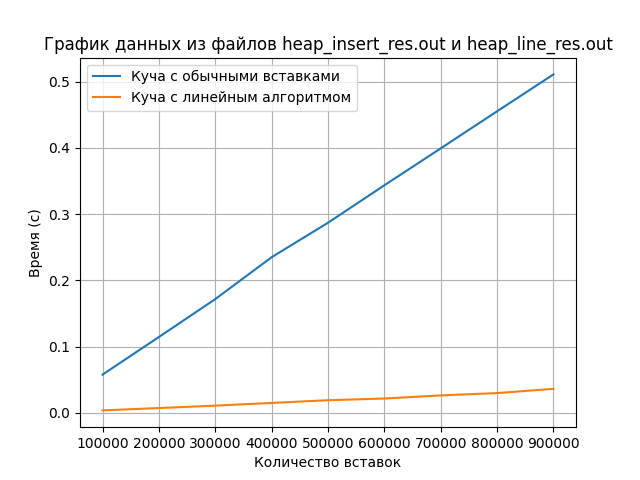
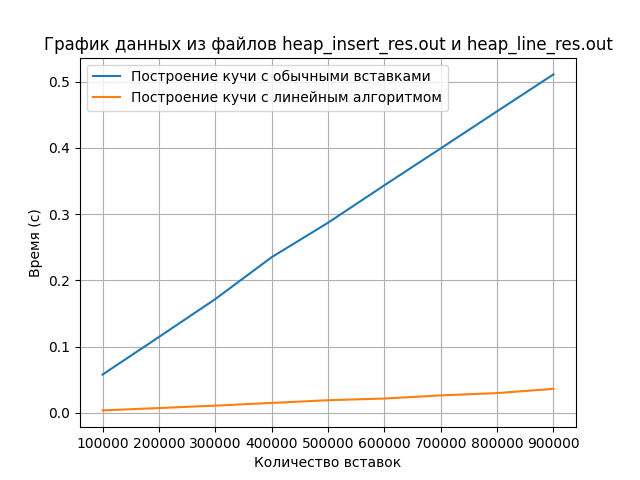
corrected names and added some changes

Changed region(s): [[0.1875, 0.125, 0.7188, 0.2188]]

diff --git a/practicum_work3/BinHeap/Heap.c b/practicum_work3/BinHeap/Heap.c
@@ -1,5 +1,11 @@
 #include "Heap.h"
 
+void swap(void* a, void* b, size_t elem_size);
+void SiftDown(Heap* hp, size_t index);
+void SiftUp(Heap* hp, size_t index);
+size_t GetChild(size_t index, size_t k, size_t i);
+size_t GetParent(size_t index, size_t k);
+
 void swap(void* first, void* second, size_t elem_size)
 {
     void* temp = calloc(1, elem_size);
@@ -15,28 +21,28 @@ void swap(void* first, void* second, size_t elem_size)
     free(temp);
 }
 
-int GetParent(int index, int k)
+size_t GetParent(size_t index, size_t k)
 {
     if (index < 1) return 0;
     return (index - 1) / k;
 }
 
-int GetChild(int index, int k, int i)
+size_t GetChild(size_t index, size_t k, size_t i)
 {
     return index * k + i;
 }
 
-int GetMax(Heap* hp, int index)
+int GetMax(Heap* hp, size_t index)
 {
     assert(hp != NULL);
  
-    int max_index = index;
+    size_t max_index = index;
     int max_value = INT_MIN;
-    int k         = hp->children;
+    size_t k         = hp->children;
 
     for (int i = 1; i < k + 1; i++)
     {
-        int child = GetChild(index, k, i);
+        size_t child = GetChild(index, k, i);
         if (child < hp->size && hp->arr[child] > max_value)
         {
             max_index = child;
@@ -47,12 +53,12 @@ int GetMax(Heap* hp, int index)
     return max_index;
 }
 
-void SiftDown(Heap* hp, int index)
+void SiftDown(Heap* hp, size_t index)
 {
     assert(hp != NULL);
 
     if (index >= hp->size) return;
-    int k = hp->children;
+    size_t k = hp->children;
     while(index * k + 1 < hp->size)
     {
         int i_max = GetMax(hp, index);
@@ -68,11 +74,11 @@ void SiftDown(Heap* hp, int index)
     }
 }
 
-void SiftUp(Heap* hp, int index)
+void SiftUp(Heap* hp, size_t index)
 {
     assert(hp != NULL);
 
-    int parent    = 0;
+    size_t parent    = 0;
 
     while(index != 0)
     {
@@ -113,7 +119,7 @@ void HeapInsert(Heap* hp, int data)
     hp->arr[hp->size] = data;
     hp->size++;
 
-    int i = hp->size;
+    size_t i = hp->size;
     SiftUp(hp, i - 1);
 
 }

diff --git a/practicum_work3/BinHeap/Picture.py b/practicum_work3/BinHeap/Picture.py
@@ -8,7 +8,7 @@ for line in input_arr:
     x_arr.append(int(data[0]))
     y_arr.append(float(data[1]))
 input_arr.close()
-plt.plot(x_arr, y_arr, label = 'Куча с обычными вставками')
+plt.plot(x_arr, y_arr, label = 'Построение кучи с обычными вставками')
 
 input_list = open('HeapLine/heap_line_res.out', 'r')
 x_list = []
@@ -19,7 +19,7 @@ for line in input_list:
     y_list.append(float(data[1]))
 input_list.close()
 
-plt.plot(x_list, y_list, label = 'Куча с линейным алгоритмом')
+plt.plot(x_list, y_list, label = 'Построение кучи с линейным алгоритмом')
 
 plt.xlabel('Количество вставок')
 plt.ylabel('Время (с)')

diff --git a/practicum_work3/BinHeap/Heap.h b/practicum_work3/BinHeap/Heap.h
@@ -15,8 +15,8 @@ typedef struct
 {
     int* arr;
     int  children;
-    int  size;
-    int  capacity;
+    size_t  size;
+    size_t  capacity;
 } Heap;
 
 enum Status
@@ -26,16 +26,10 @@ enum Status
     ERROR_SCANF                = -2
 };
 
-void swap(void* a, void* b, size_t elem_size);
-void SiftDown(Heap* hp, int index);
-void SiftUp(Heap* hp, int index);
 void HeapInsert(Heap* hp, int data);
 void HeapDtor(Heap* h);
 
-
-int GetChild(int index, int k, int i);
-int GetParent(int index, int k);
-int GetMax(Heap* hp, int index);
+int GetMax(Heap* hp, size_t index);
 int ExtractMax(Heap* h);
 
 #endif 

diff --git a/practicum_work3/README.md b/practicum_work3/README.md
@@ -20,7 +20,7 @@
 
 ### График
 ---
-   ![резы тестов](./BinHeap/pictures/heap_graphs.png)
+   ![результаты тестов](./BinHeap/pictures/heap_graphs.png)
 ---
 
 ## Вывод
